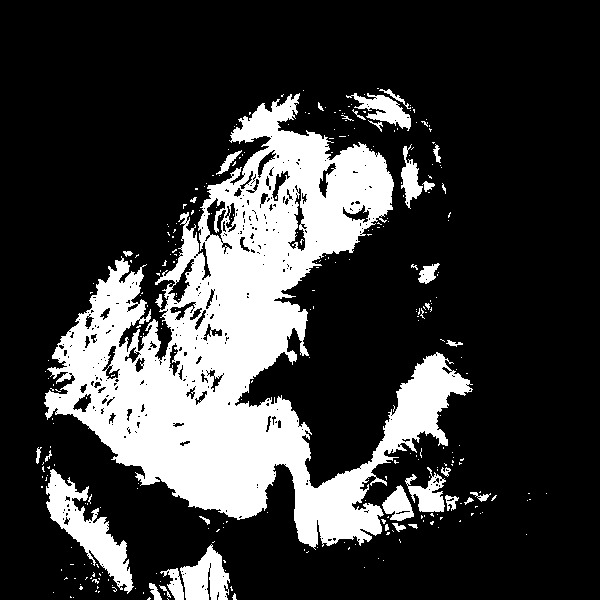
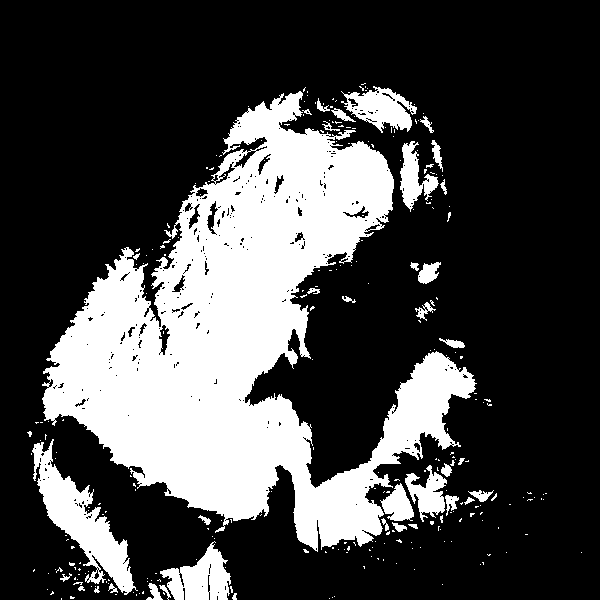
Change to 3 shades and save binarized in class

diff --git a/spiral.py b/spiral.py
@@ -14,47 +14,52 @@ class Spiral(object):
         self.im2 = cv2.imread(image) #non grey-scaled
         self.window = cv2.namedWindow("image")
         self.thresh, self.image_bw = cv2.threshold(self.image, 128, 255, cv2.THRESH_BINARY | cv2.THRESH_OTSU)
+        self.black = None
+        self.darkgrey = None
+        # self.midgrey = None
+        self.lightgrey = None
+        self.white = None
 
     def binary4(self):
         """
         Splits image into 4 binarized images with different light thresholds and displays them together
         """
-        black = cv2.inRange(self.image, 0, 30)
-        darkgrey = cv2.inRange(self.image, 31, 91)
-        midgrey = cv2.inRange(self.image, 92, 152)
-        lightgrey = cv2.inRange(self.image, 153, 220)
+        black = cv2.inRange(self.image, 0, 40)
+        darkgrey = cv2.inRange(self.image, 41, 131)
+        # midgrey = cv2.inRange(self.image, 92, 152)
+        lightgrey = cv2.inRange(self.image, 132, 220)
         white = cv2.inRange(self.image, 221, 255)
         black[black == 255] = 1
         darkgrey[darkgrey == 255] = 65
-        midgrey[midgrey == 255] = 132
+        # midgrey[midgrey == 255] = 132
         lightgrey[lightgrey == 255] = 196
         tmp = np.add(black,darkgrey)
-        tmp = np.add(tmp,midgrey)
+        # tmp = np.add(tmp,midgrey)
         tmp = np.add(tmp,lightgrey)
         tmp[tmp == 0] = 255
         # cv2.imshow("image",tmp)
         # cv2.waitKey(0)
-        cv2.imwrite('images/binarized/'+IMG_NAME+'/4shades.png', tmp)
+        cv2.imwrite('images/binarized/'+IMG_NAME+'/3shades.png', tmp)
 
     def binary4_split(self):
         """
         Splits image into 4 binarized images with different light thresholds and displays them separate
         """
-        black = cv2.inRange(self.image, 0, 30)
-        darkgrey = cv2.inRange(self.image, 31, 91)
-        midgrey = cv2.inRange(self.image, 92, 152)
-        lightgrey = cv2.inRange(self.image, 153, 220)
-        white = cv2.inRange(self.image, 221, 255)
+        self.black = cv2.inRange(self.image, 0, 40)
+        self.darkgrey = cv2.inRange(self.image, 41, 131)
+        # self.midgrey = cv2.inRange(self.image, 92, 152)
+        self.lightgrey = cv2.inRange(self.image, 132, 220)
+        self.white = cv2.inRange(self.image, 221, 255)
         # cv2.imshow("draw black", black)
         # cv2.imshow("draw dark grey", darkgrey)
         # cv2.imshow("draw mid grey", midgrey)
         # cv2.imshow("draw light grey", lightgrey)
         # cv2.imshow("leave white", white)
-        cv2.imwrite('images/binarized/'+IMG_NAME+'/binary_black.png', black)
-        cv2.imwrite('images/binarized/'+IMG_NAME+'/binary_darkgrey.png', darkgrey)
-        cv2.imwrite('images/binarized/'+IMG_NAME+'/binary_midgrey.png', midgrey)
-        cv2.imwrite('images/binarized/'+IMG_NAME+'/binary_lightgrey.png', lightgrey)
-        cv2.imwrite('images/binarized/'+IMG_NAME+'/binary_white.png', white)
+        cv2.imwrite('images/binarized/'+IMG_NAME+'/binary_black.png', self.black)
+        cv2.imwrite('images/binarized/'+IMG_NAME+'/binary_darkgrey.png', self.darkgrey)
+        # cv2.imwrite('images/binarized/'+IMG_NAME+'/binary_midgrey.png', self.midgrey)
+        cv2.imwrite('images/binarized/'+IMG_NAME+'/binary_lightgrey.png', self.lightgrey)
+        cv2.imwrite('images/binarized/'+IMG_NAME+'/binary_white.png', self.white)
         # cv2.waitKey(0)
 
 
